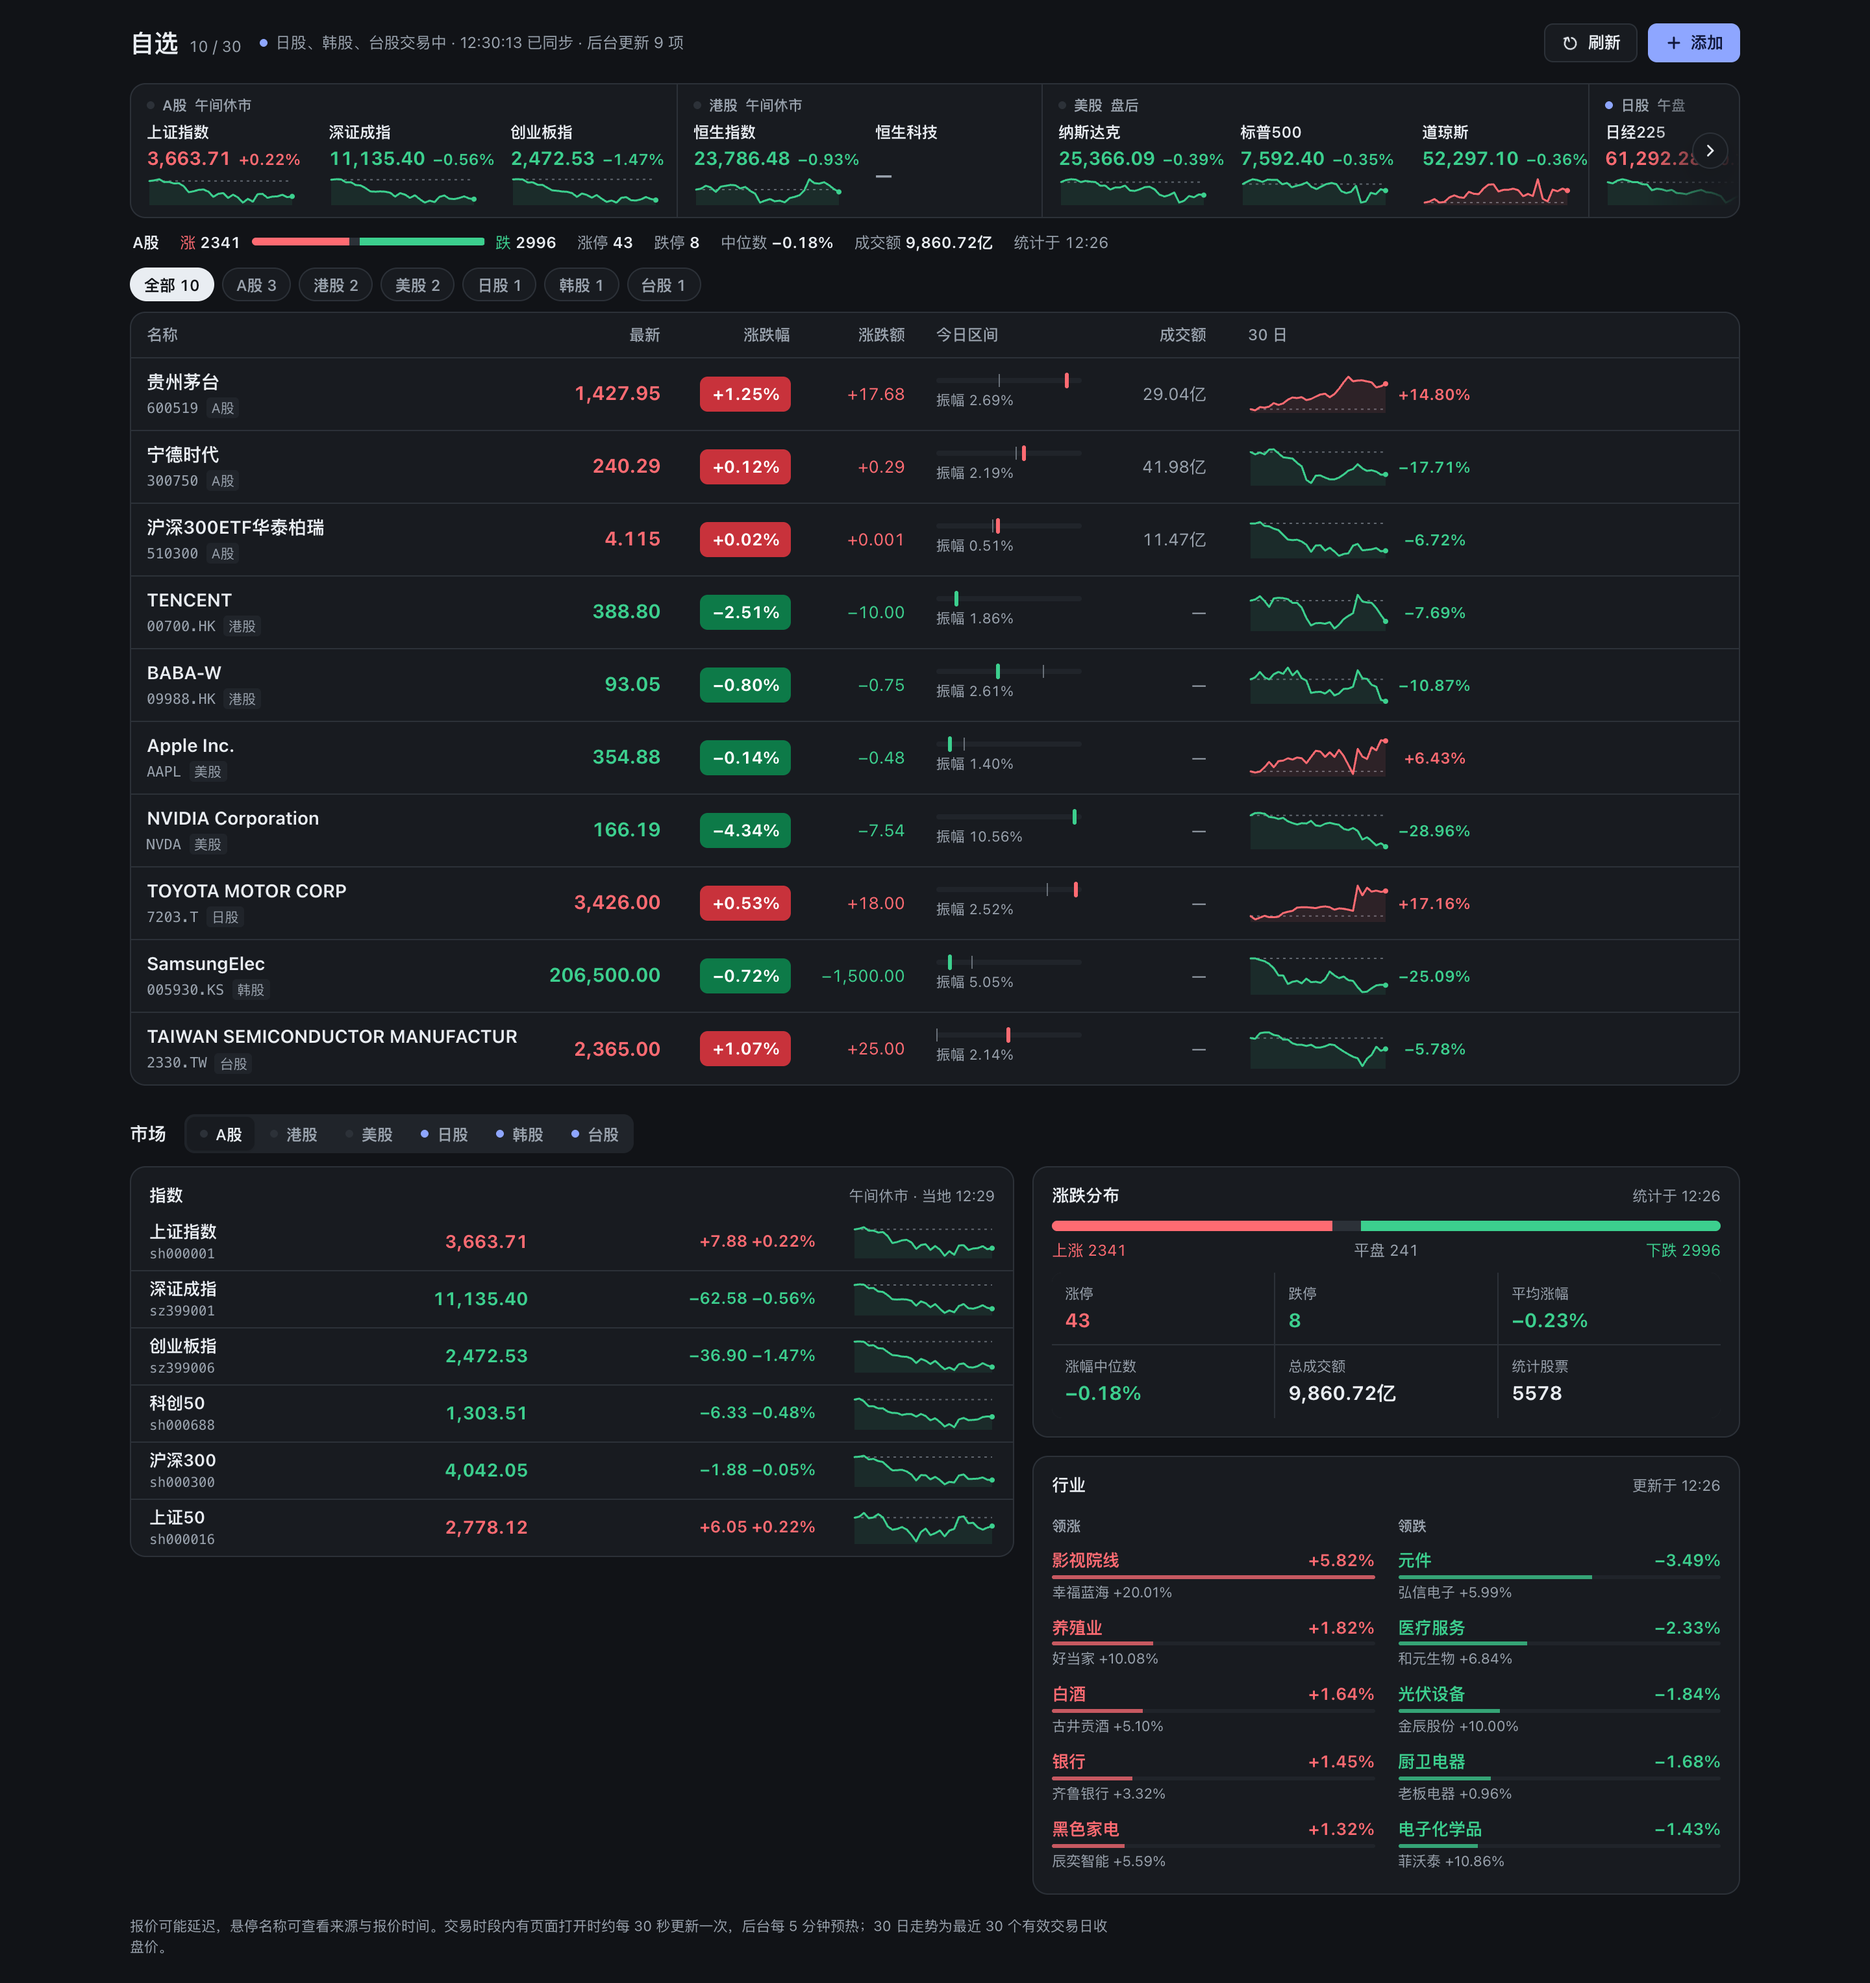
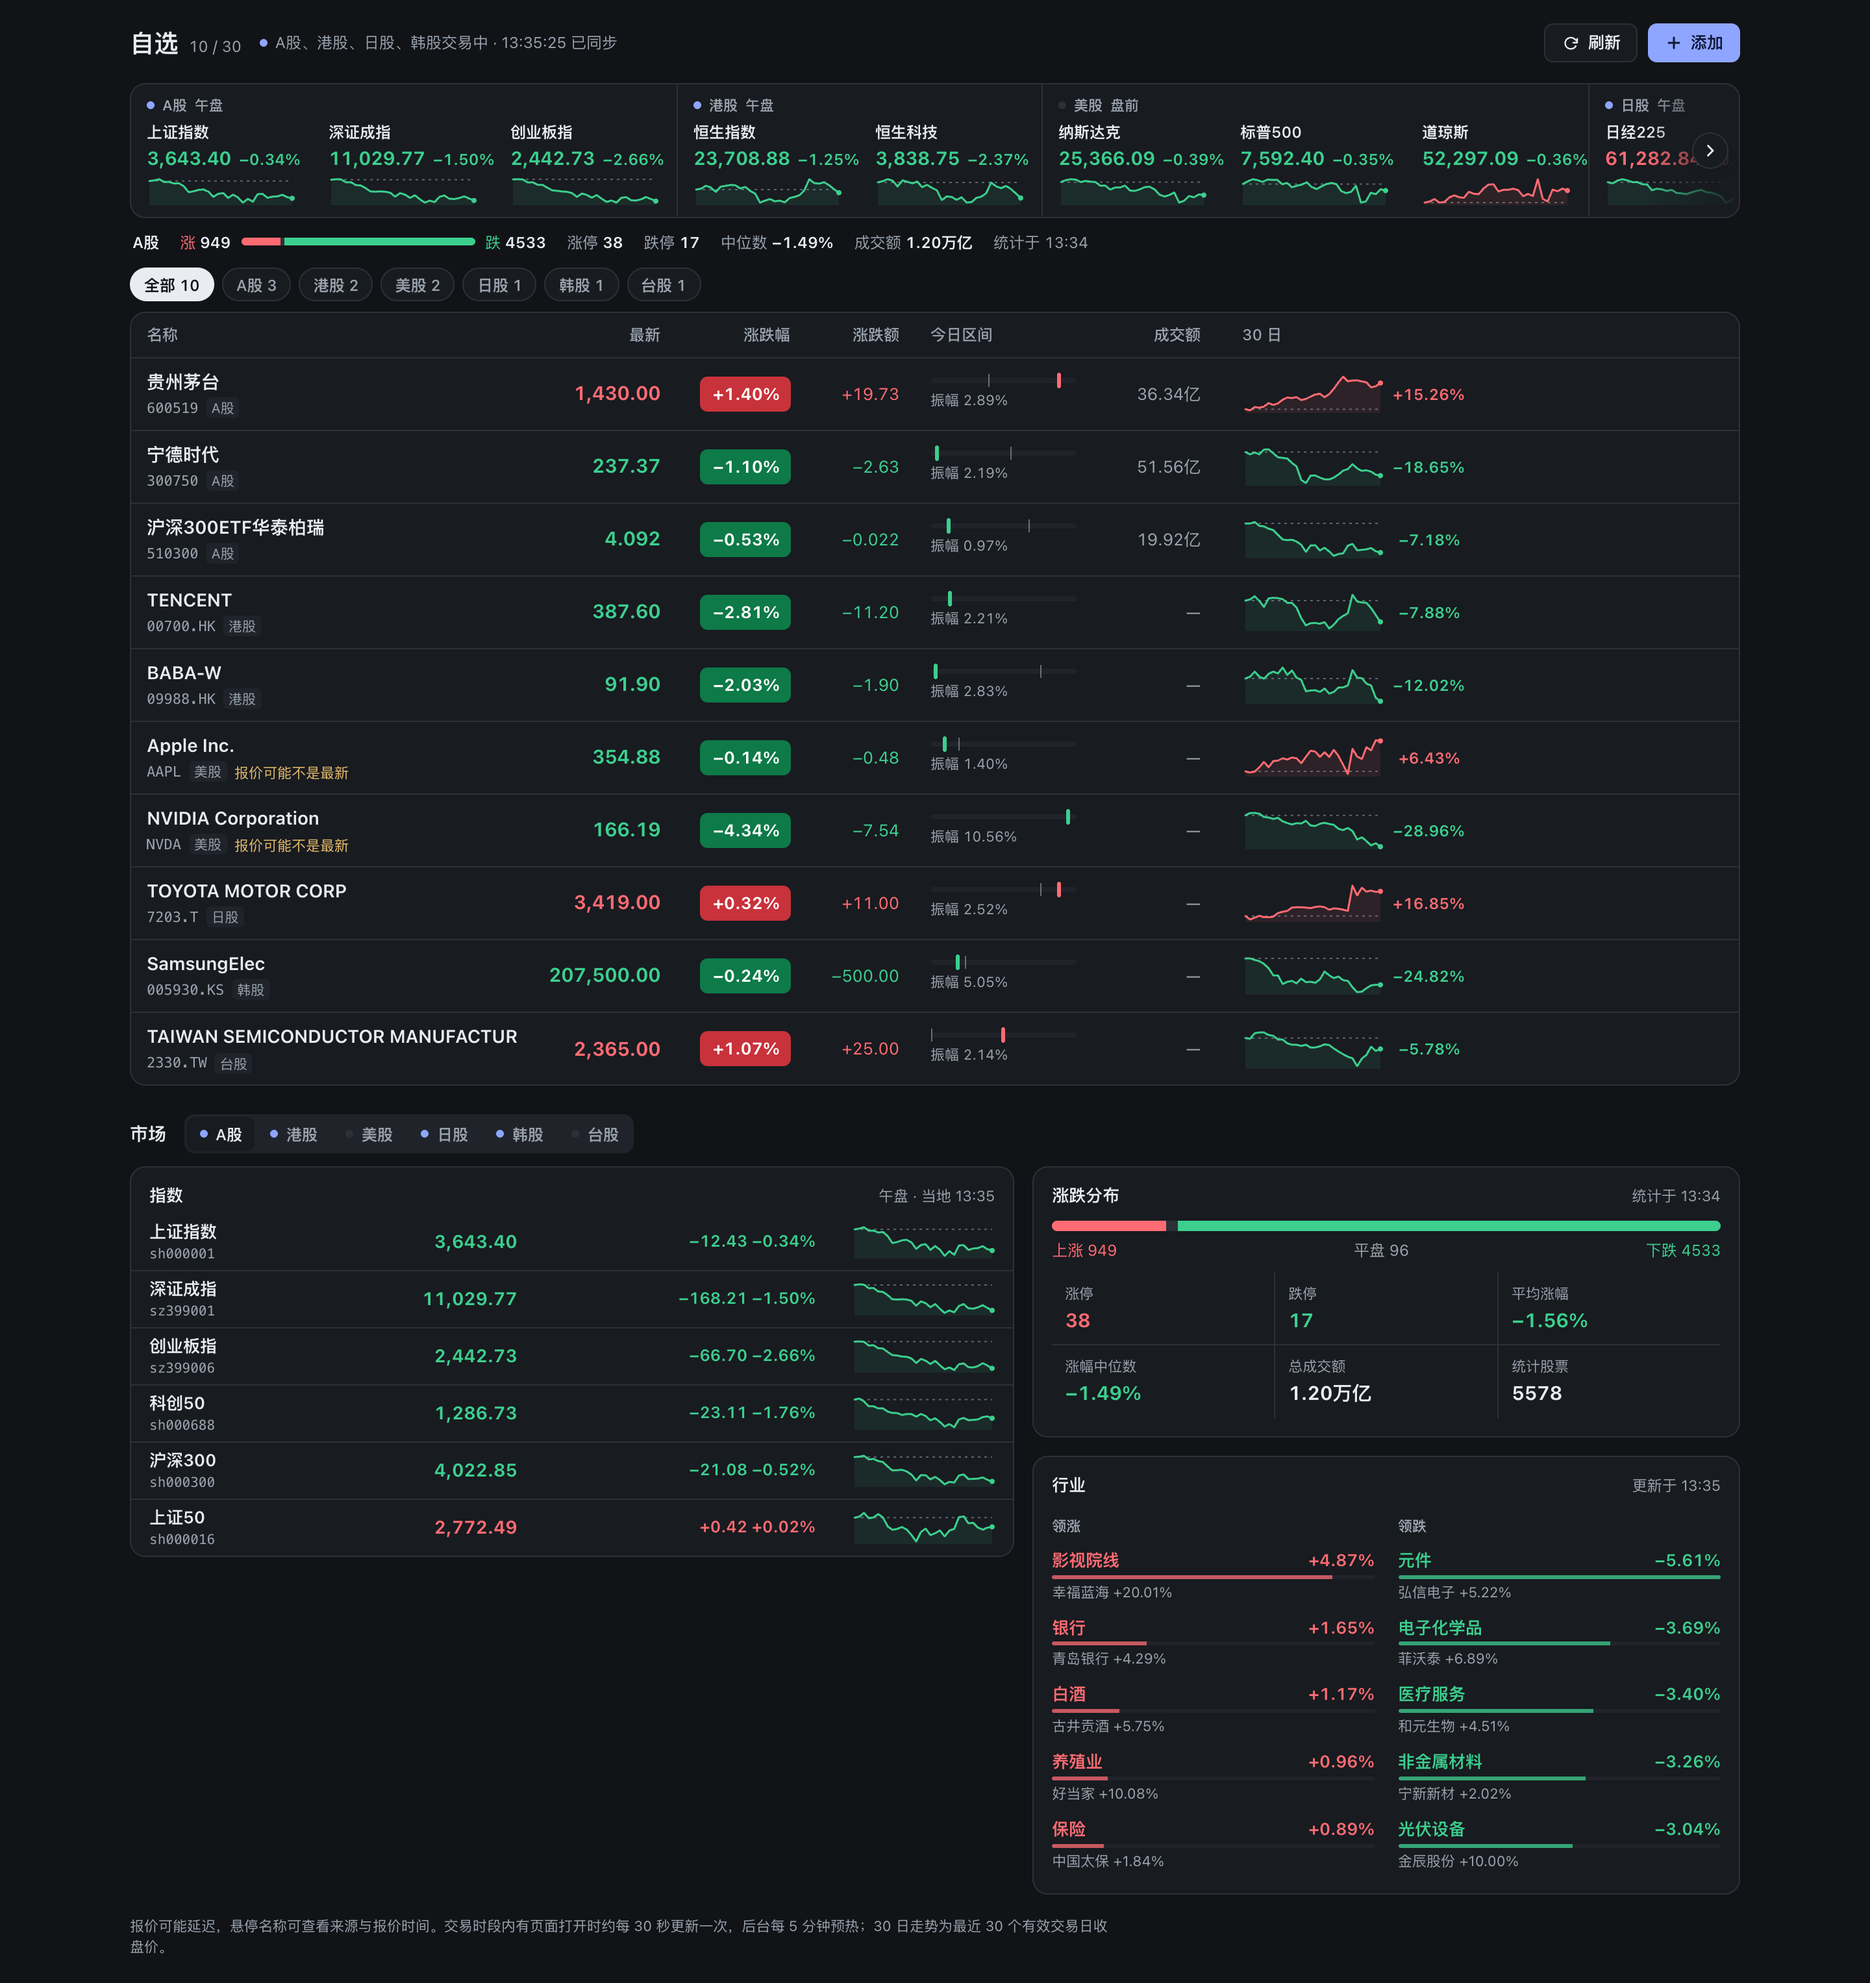
fix: read Hang Seng Tech index from Tencent

diff --git a/tools/stock_data.py b/tools/stock_data.py
@@ -25,6 +25,8 @@ from trading_calendar import market_now  # noqa: E402
 # hatch for index codes (sh000001 = 上证指数, not 平安银行).
 _A_PREFIXED_RE = re.compile(r"(?:sh|sz|bj)\d{6}", re.IGNORECASE)
 _A_INDEX_RE = re.compile(r"(?:sh000\d{3}|sz399\d{3})", re.IGNORECASE)
+# Yahoo has no Hang Seng Tech index; Tencent serves its live quote and daily history.
+_TENCENT_HK_INDEX = {"^HSTECH": "hkHSTECH"}
 
 
 def detect_market(symbol: str) -> str:
@@ -413,7 +415,7 @@ def _kline_tencent(symbol: str, period: str, count: int) -> list:
 
     p_map = {"daily": "day", "weekly": "week", "monthly": "month"}
     p = p_map.get(period, "day")
-    code = _cn_code(symbol)
+    code = _TENCENT_HK_INDEX.get(symbol.upper()) or _cn_code(symbol)
     resp = requests.get(
         "https://web.ifzq.gtimg.cn/appstock/app/fqkline/get",
         params={"param": f"{code},{p},,,{count},qfq"},
@@ -423,7 +425,8 @@ def _kline_tencent(symbol: str, period: str, count: int) -> list:
     if data.get("code") != 0:
         raise ValueError(f"tencent kline failed: {data.get('msg', '')}")
     node = data.get("data", {}).get(code, {})
-    rows = node.get(p) if _A_INDEX_RE.fullmatch(symbol) else node.get(f"qfq{p}")
+    raw = _A_INDEX_RE.fullmatch(symbol) or code.startswith("hk")
+    rows = node.get(p) if raw else node.get(f"qfq{p}")
     if not rows:
         raise ValueError("tencent kline returned empty data for required adjustment")
     return [
@@ -1060,6 +1063,10 @@ def _yf_failover(symbol: str, yfinance, finnhub, longbridge, alphavantage, label
 
 def kline_yf(symbol: str, period: str, count: int, evidence: bool = False) -> list:
     """HK/US/JP/KR/TW kline. Failover: yfinance → finnhub/longbridge (HK/US) → alphavantage (US only)."""
+    if symbol.upper() in _TENCENT_HK_INDEX:
+        with socket_timeout(25):
+            sources = [("tencent", lambda: _kline_tencent(symbol, period, count))]
+            return _failover(sources, label=f"kline_hk_index:{symbol}", evidence=evidence)
     return _yf_failover(
         symbol,
         lambda: _kline_yfinance(symbol, period, count),
@@ -1250,6 +1257,9 @@ def _quote_finnhub(symbol: str) -> dict:
 
 def quote_yf(symbol: str, evidence: bool = False) -> dict:
     """HK adds Tencent after yfinance; US/JP/KR/TW keep their existing failover chains."""
+    if symbol.upper() in _TENCENT_HK_INDEX:
+        sources = [("tencent", lambda: {"symbol": symbol, **_quote_tencent_hk_index(symbol.upper())})]
+        return _failover(sources, label=f"quote_hk_index:{symbol}", evidence=evidence)
     if detect_market(symbol) == "HK":
         return _failover(
             [
@@ -1410,7 +1420,11 @@ def _quote_tiaa(symbol: str) -> dict:
 def cmd_quote(args):
     if re.fullmatch(r"TIAA\d{6}", args.symbol, re.IGNORECASE):
         return _quote_tiaa(args.symbol.upper())
-    market = detect_market(args.symbol)
+    # detect_market reads every ^index as US; known region indices keep their own calendar for freshness.
+    market = next(
+        (region.upper() for region, symbols in _REGION_INDEX_SYMBOLS.items() if args.symbol.upper() in symbols),
+        None,
+    ) or detect_market(args.symbol)
     try:
         result = quote_a(args.symbol, evidence=True) if market == "A" else quote_yf(args.symbol, evidence=True)
     except Exception as e:
@@ -2198,6 +2212,31 @@ _REGION_INDEX_SYMBOLS = {
 }
 
 
+def _quote_tencent_hk_index(symbol: str) -> dict:
+    """Tencent r_hk index quote, using the same `~` field positions as _tencent_payload_row.
+    Volume is omitted: the index feed's volume field has no confirmed unit."""
+    import requests
+
+    resp = requests.get(f"https://qt.gtimg.cn/q=r_{_TENCENT_HK_INDEX[symbol]}", timeout=10)
+    resp.raise_for_status()
+    f = _gbk_var_payload(resp.content).split("~")
+    price = _parse_float(f[3]) if len(f) > 34 else None
+    if price is None or price <= 0:
+        raise ValueError(f"tencent returned no quote for {symbol}")
+    return {
+        "price": price,
+        "change": _parse_float(f[31]),
+        "change_pct": _parse_float(f[32]),
+        "high": _parse_float(f[33]),
+        "low": _parse_float(f[34]),
+        "open": _parse_float(f[5]),
+        "prev_close": _parse_float(f[4]),
+        "source": "tencent",
+        "data_as_of": _quote_time(f[30], "%Y/%m/%d %H:%M:%S"),
+        "fetched_at": datetime.now(timezone.utc).isoformat(),
+    }
+
+
 def cmd_market_indices(args):
     region = args.region.lower()
     try:
@@ -2255,6 +2294,8 @@ def cmd_market_indices(args):
             def fetch_index(item):
                 sym, name = item
                 try:
+                    if sym in _TENCENT_HK_INDEX:
+                        return _clean_row({"code": sym, "name": name, **_quote_tencent_hk_index(sym)})
                     info = yf.Ticker(sym).info
                     return _clean_row(
                         {

diff --git a/tests/test_stock_data_failover.py b/tests/test_stock_data_failover.py
@@ -54,6 +54,7 @@ from tools.stock_data import (
     _xq_symbol,
     _yf_hk_symbol,
     cmd_capital_flow,
+    cmd_kline,
     cmd_market_indices,
     cmd_market_stats,
     cmd_news,
@@ -228,6 +229,68 @@ def test_non_cn_indices_fetch_in_parallel_and_keep_symbol_order(mock_yfinance):
     assert [row["code"] for row in result] == ["^DJI", "^IXIC", "^GSPC", "^RUT"]
     assert result[0]["price"] == 101
     assert result[0]["change_pct"] == 1
+
+
+def _hstech_tencent_quote():
+    fields = ["0"] * 50
+    fields[1], fields[3], fields[4], fields[5] = "恒生科技指数", "3838.330", "3931.930", "3918.210"
+    fields[30], fields[31], fields[32], fields[33], fields[34] = (
+        "2026/11/13 13:26:58",
+        "-93.600",
+        "-2.38",
+        "3938.390",
+        "3838.030",
+    )
+    return MagicMock(content=('v_r_hkHSTECH="' + "~".join(fields) + '";').encode("gbk"))
+
+
+def test_hk_indices_read_hang_seng_tech_from_tencent(mock_yfinance):
+    mock_yfinance.Ticker.return_value.info = {"regularMarketPrice": 23786.48, "regularMarketChangePercent": -0.93}
+    with patch("requests.get", return_value=_hstech_tencent_quote()) as get:
+        result = cmd_market_indices(Namespace(region="hk"))
+
+    assert [row["code"] for row in result] == ["^HSI", "^HSCE", "^HSTECH"]
+    assert "^HSTECH" not in [c.args[0] for c in mock_yfinance.Ticker.call_args_list]
+    assert get.call_args.args[0] == "https://qt.gtimg.cn/q=r_hkHSTECH"
+    tech = result[2]
+    assert (tech["price"], tech["change"], tech["change_pct"], tech["prev_close"]) == (3838.33, -93.6, -2.38, 3931.93)
+    assert (tech["high"], tech["low"], tech["open"], tech["source"]) == (3938.39, 3838.03, 3918.21, "tencent")
+    assert tech["data_as_of"] == "2026-11-13T13:26:58+08:00"
+
+
+def test_hang_seng_tech_quote_uses_tencent(mock_yfinance):
+    with (
+        patch("requests.get", return_value=_hstech_tencent_quote()) as get,
+        patch("tools.stock_data._quote_stale_marker", return_value=None) as marker,
+    ):
+        result = cmd_quote(Namespace(symbol="^HSTECH"))
+
+    mock_yfinance.Ticker.assert_not_called()
+    marker.assert_called_once_with("HK")
+    assert get.call_args.args[0] == "https://qt.gtimg.cn/q=r_hkHSTECH"
+    assert (result["symbol"], result["price"], result["change_pct"], result["source"]) == (
+        "^HSTECH",
+        3838.33,
+        -2.38,
+        "tencent",
+    )
+
+
+def test_hang_seng_tech_kline_uses_tencent_raw_points(mock_yfinance):
+    rows = [
+        ["2026-11-12", "3950", "3931.93", "3960", "3900", "100"],
+        ["2026-11-13", "3918.21", "3838.33", "3938.39", "3838.03", "90"],
+    ]
+    body = {"code": 0, "data": {"hkHSTECH": {"day": rows}}}
+    with patch("requests.get", return_value=MagicMock(json=lambda: body)) as get:
+        result = cmd_kline(Namespace(symbol="^HSTECH", period="daily", count=2))
+
+    mock_yfinance.Ticker.assert_not_called()
+    assert get.call_args.kwargs["params"]["param"].startswith("hkHSTECH,day,")
+    assert [(row["date"], row["close"], row["source"]) for row in result] == [
+        ("2026-11-12", 3931.93, "tencent"),
+        ("2026-11-13", 3838.33, "tencent"),
+    ]
 
 
 class TestKlineYfinance:
